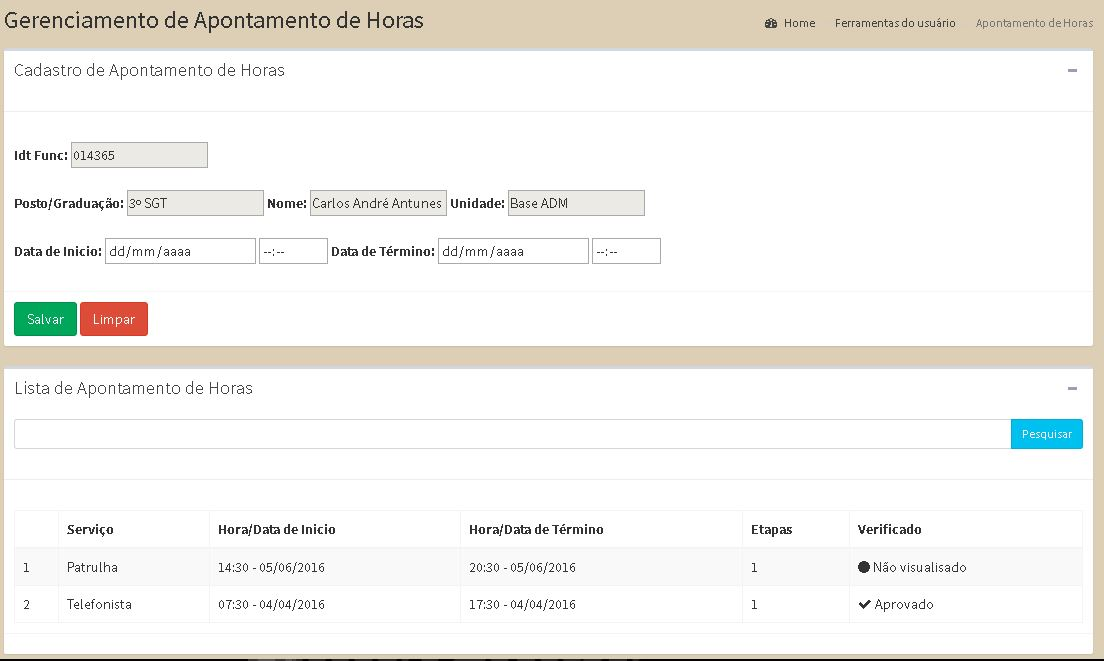
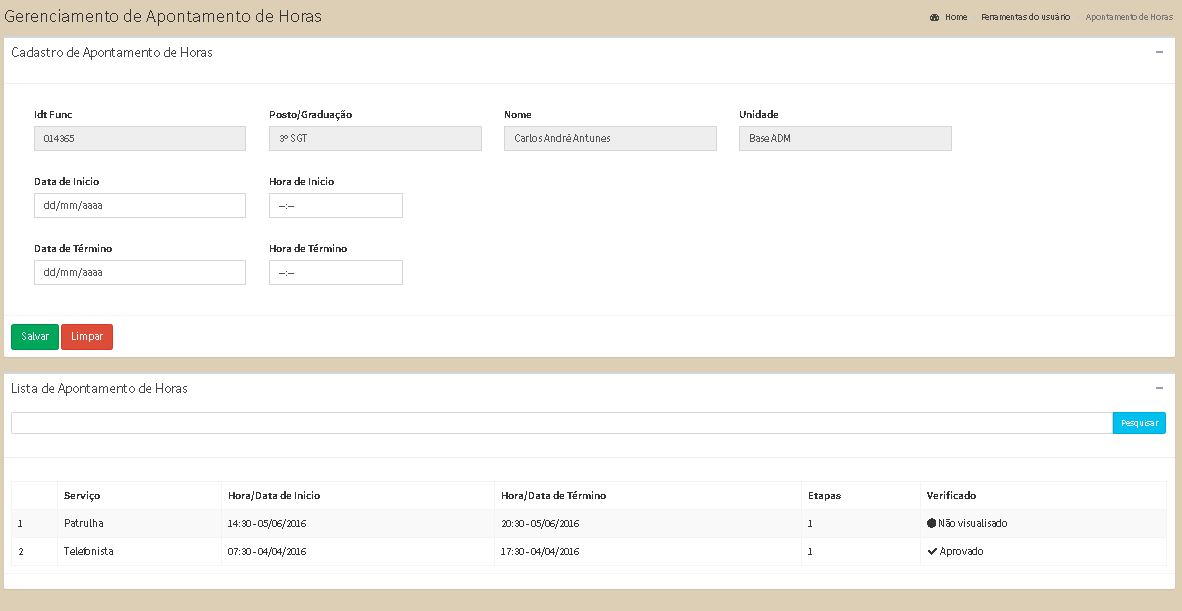
prototipos ok

diff --git a/3.HTML Protótipos/1.Prototipo de tela OK/Carlos/HTML/solicitarDispensa/solicitar_dispensa.html b/3.HTML Protótipos/1.Prototipo de tela OK/Carlos/HTML/solicitarDispensa/solicitar_dispensa.html
@@ -50,7 +50,7 @@
     <script src="../../dist/js/app.min.js"></script>
     <script src="../../dist/js/pages/dashboard.js"></script>
     <script src="../../dist/js/demo.js"></script>
-	
+
     <!-- HTML5 Shim and Respond.js IE8 support of HTML5 elements and media queries -->
     <!-- WARNING: Respond.js doesn't work if you view the page via file:// -->
     <!--[if lt IE 9]>
@@ -78,7 +78,7 @@
                 <div class="user-panel">
                     <div class="pull-left image">
                         <img src="../../dist/img/logoCRPO160X160.png" class="img-circle" style="width: 70%; margin-left: 12%; height: 100px; max-width: 100%;">
-                    </div>                   
+                    </div>
                 </div>
                 <ul class="sidebar-menu">
                     <li class="header">CRPO SERRA</li>
@@ -148,7 +148,7 @@
                         <ul class="treeview-menu">
                             <li><a href="../../pages/apontamentoHoras/apontamento_horas.html"><i class="fa fa-circle-o"></i>Apontamento de Horas</a></li>
 							<li><a href="../../pages/quadroDistribuicaoHoraExtra/list.html"><i class="fa fa-circle-o"></i>Horas Extras</a></li>
-                            <li><a href="../../pages/solicitarDispensa/solicitar_dispensa.html"><i class="fa fa-circle-o"></i>Solicitar dispensa</a></li>							
+                            <li><a href="../../pages/solicitarDispensa/solicitar_dispensa.html"><i class="fa fa-circle-o"></i>Solicitar dispensa</a></li>
                         </ul>
                     </li>
                 </ul>
@@ -157,88 +157,129 @@
 		<!-- /MENUS -->
         <!-- CORPO -->
         <div class="content-wrapper">
+          <section class="content-header">
+          <h1>
+            Gerenciamento de Solicitação de Dispensas
+          </h1>
+          <ol class="breadcrumb">
+            <li><a href="#"><i class="fa fa-dashboard"></i> Home</a></li>
+            <li><a href="#">Ferramentas do usuário</a></li>
+            <li class="active">Solicitar Dispensa</li>
+          </ol>
+        </section>
             <section class="content">
                 <div class="box">
                  <div class="box-header">
                     <h3 class="box-title">Solicitar Dispensas</h3>
+                    <div class="box-tools pull-right">
+                      <button type="button" class="btn btn-box-tool" data-widget="collapse"><i class="fa fa-minus"></i></button>
+                    </div>
                  </div>
                  <hr>
                   <form role="form">
                         <div class="box-body">
                             <div class="bs-example">
-                                <div class="form-group">
-                                    <div class="camposForm">
-                                        <label class="control-label">Idt Func:</label>
-                                        <input type="text" id="inputIdtFunc" placeholder="nº da identidade func.." />
-                                        <label id="mensagem" style="color:red"></label>
-                                    </div>
-                                    <br />
-                                    <div class="camposForm">
-                                        <label class="control-label">Posto/Graduação:</label>
-                                        <input type="text" id="inputPg"/>
-                                        <label class="control-label1">Nome:</label>
-                                        <input type="text" id="inputNome"/>
-                                         <label class="control-label1">Unidade:</label>
-                                        <input type="text" id="inputUnidade"/>
-                                    </div>
-                                    <br />
-                                    <div>
-                                         <label class="control-label">Solicitação:</label>
-                                    </div>
-                                    <div>     
-                                        <textarea rows="4" cols="50" placeholder="Venho por meio deste, solicitar ... dias de afastamento por motivo de...."></textarea>
-                                    </div>
-                                    <br />
-                                    <div class="camposForm">
-                                        <label class="control-label">Data de Inicio:</label>
-                                        <input type="date" id="inputDtInicio"/>
 
-                                        <label class="control-label">Data de Término:</label>
-                                        <input type="date" id="inputDtInicio"/>
+                                  <div class="form-group col-md-3">
+                                        <label class="control-label">Idt Func</label>
+                                        <input class="form-control" id="inputIdtFunc" placeholder="nº da identidade func.." />
                                     </div>
+                                    <div class="form-group col-md-3">
+                                        <label class="control-label">Posto/Graduação</label>
+                                        <input class="form-control" type="text" id="inputPg"/>
+                                    </div>
+                                    <div class="form-group col-md-3">
+                                        <label class="control-label1">Nome</label>
+                                        <input class="form-control" type="text" id="inputNome"/>
+                                    </div>
+                                    <div class="form-group col-md-3">
+                                         <label class="control-label1">Unidade</label>
+                                        <input class="form-control" type="text" id="inputUnidade"/>
+                                    </div>
+                                    <br />
+                                    <div class="form-group col-md-8">
+                                         <label class="control-label">Solicitação</label>
+                                        <textarea class="form-control" rows="4" cols="50" placeholder="Venho por meio deste, solicitar ... dias de afastamento por motivo de...."></textarea>
+                                    </div>
+                                    <br />
+                                    <div class="form-group col-md-8">
+                                      <div class="form-group col-md-3">
+                                        <label class="control-label">Data de Inicio</label>
+                                        <input type="date" id="inputDtInicio"/>
+                                      </div>
+                                      <div class="form-group col-md-3">
+                                        <label class="control-label">Data de Término</label>
+                                        <input type="date" id="inputDtInicio"/>
+                                      </div>
                                 </div>
                             </div>
                         </div>
-                        
+
                     </form>
+
                     <div class="box-footer">
-                            <button id="btn" class="btn btn-success">Enviar</button>
+                            <button id="btn" class="btn btn-success">Solicitar</button>
+                            <button id="btn" class="btn btn-danger">Limpar</button>
                         </div>
-                    <table id="motivos" class="table table-bordered table-striped">
-                           <thead>
-                               <tr>
-                                   <th></th>
-                                   <th>Data de Inicio</th>
-                                   <th>Data de Término</th>
-                                   <th>Motivo</th>
-                                   <th>Situação</th>
-                               </tr>
-                           </thead>
-                           <tbody>
-                               <tr>
-                                   <td>1</td>
-                                   <td>04/04/2016</td>
-                                   <td>04/05/2016</td>
-                                   <td>Solicito 15 dias de afastamento por motivo de férias.</td>
-                                   <td><i class="fa fa-check " title="Aprovado"></i></td>
-                               </tr>
-                               <tr>
-                                   <td>2</td>
-                                   <td>05/03/2016</td>
-                                   <td>08/03/2016</td>
-                                   <td>Solicito 3 dias de afastamento por motivo de levar meu cachorro passear.</td>
-                                   <td><i class="fa fa-times " title="Negado"></i></td>
-                               </tr>
-                               <tr>
-                                   <td>3</td>
-                                   <td>05/03/2016</td>
-                                   <td>08/03/2016</td>
-                                   <td>Solicito 3 dias de afastamento por motivo de levar meu cachorro passear.</td>
-                                   <td><i class="fa fa-circle " title="Em análise"></i></td>
-                               </tr>
-                           </tbody>
-                    </table>
-                </div> 
+                        </div>
+                        <div class="box">
+                         <div class="box-header">
+                            <h3 class="box-title">Lista de Solicitações</h3>
+                            <div class="box-tools pull-right">
+                              <button type="button" class="btn btn-box-tool" data-widget="collapse"><i class="fa fa-minus"></i></button>
+                            </div>
+                         </div>
+                         <div class="box-body">
+                         <div class="input-group input-group-sm">
+                         <input type="text" class="form-control">
+                           <span class="input-group-btn">
+                             <button type="button" class="btn btn-info btn-flat">Pesquisar</button>
+                             </span>
+                     </div>
+                   </div>
+                         <hr>
+                         <div class="box-body">
+                           <table id="motivos" class="table table-bordered table-striped">
+                                  <thead>
+                                      <tr>
+                                          <th></th>
+                                          <th>Data de Inicio</th>
+                                          <th>Data de Término</th>
+                                          <th>Motivo</th>
+                                          <th>Situação</th>
+                                      </tr>
+                                  </thead>
+                                  <tbody>
+                                      <tr>
+                                          <td>1</td>
+                                          <td>04/04/2016</td>
+                                          <td>04/05/2016</td>
+                                          <td>Solicito 15 dias de afastamento por motivo de férias.</td>
+                                          <td><i class="fa fa-check " title="Aprovado"></i> Aprovado</td>
+                                      </tr>
+                                      <tr>
+                                          <td>2</td>
+                                          <td>05/03/2016</td>
+                                          <td>08/03/2016</td>
+                                          <td>Solicito 3 dias de afastamento por motivo de levar meu cachorro passear.</td>
+                                          <td><i class="fa fa-times " title="Negado"></i> Negado</td>
+                                      </tr>
+                                      <tr>
+                                          <td>3</td>
+                                          <td>05/03/2016</td>
+                                          <td>08/03/2016</td>
+                                          <td>Solicito 3 dias de afastamento por motivo de levar meu cachorro passear.</td>
+                                          <td><i class="fa fa-circle " title="Em análise"></i> Em análise</td>
+                                      </tr>
+                                  </tbody>
+                           </table>
+
+                       </div>
+                         <div class="box-footer">
+
+                         </div>
+
+
             </section>
         </div>
         <!-- /CORPO -->

diff --git a/3.HTML Protótipos/1.Prototipo de tela OK/Carlos/HTML/apontamentoHoras/apontamento_horas.html b/3.HTML Protótipos/1.Prototipo de tela OK/Carlos/HTML/apontamentoHoras/apontamento_horas.html
@@ -187,34 +187,48 @@
                   <form role="form">
                         <div class="box-body">
                             <div class="bs-example">
-                                <div class="form-group">
-                                    <div class="camposForm">
-                                        <label class="control-label">Idt Func:</label>
-                                        <input type="text" id="inputIdtFunc" placeholder="nº da identidade func.." />
-                                        <label id="mensagem" style="color:red"></label>
+                              <div class="form-group col-md-10">
+                                  <div class="form-group col-md-3">
+                                        <label class="control-label">Idt Func</label>
+                                        <input class="form-control" type="text" id="inputIdtFunc" placeholder="nº da identidade func.." />
+                                  </div>
+                                    <div class="form-group col-md-3">
+                                        <label class="control-label">Posto/Graduação</label>
+                                        <input class="form-control" type="text" id="inputPg"/>
                                     </div>
-                                    <br />
-                                    <div class="camposForm">
-                                        <label class="control-label">Posto/Graduação:</label>
-                                        <input type="text" id="inputPg"/>
-                                        <label class="control-label1">Nome:</label>
-                                        <input type="text" id="inputNome"/>
-                                         <label class="control-label1">Unidade:</label>
-                                        <input type="text" id="inputUnidade"/>
+                                    <div class="form-group col-md-3">
+                                        <label class="control-label1">Nome</label>
+                                        <input class="form-control" type="text" id="inputNome"/>
                                     </div>
+                                    <div class="form-group col-md-3">
+                                         <label class="control-label1">Unidade</label>
+                                        <input class="form-control" type="text" id="inputUnidade"/>
+                                    </div>
+                                  </div>
                                     <br />
-                                    <div class="camposForm">
-                                        <label class="control-label">Data de Inicio:</label>
-                                        <input type="date" id="inputInicio"/>
-                                        <input type="time" id="inputInicio"/>
-
-                                        <label class="control-label">Data de Término:</label>
-                                        <input type="date" id="inputInicio"/>
-                                        <input type="time" id="inputInicio"/>
+                                    <div class="form-group col-md-10">
+                                      <div class="form-group col-md-3">
+                                        <label class="control-label">Data de Inicio</label>
+                                        <input class="form-control" type="date" id="inputInicio"/>
+                                      </div>
+                                      <div class="form-group col-md-2">
+                                        <label class="control-label">Hora de Inicio</label>
+                                        <input class="form-control" type="time" id="inputInicio"/>
+                                      </div>
+                                    </div>
+                                    <div class="form-group col-md-10">
+                                      <div class="form-group col-md-3">
+                                        <label class="control-label">Data de Término</label>
+                                        <input class="form-control" type="date" id="inputInicio"/>
+                                      </div>
+                                      <div class="form-group col-md-2">
+                                        <label class="control-label">Hora de Término</label>
+                                        <input class="form-control" type="time" id="inputInicio"/>
+                                      </div>
                                     </div>
                                 </div>
                             </div>
-                        </div>
+
 
                     </form>
                     <div class="box-footer">
